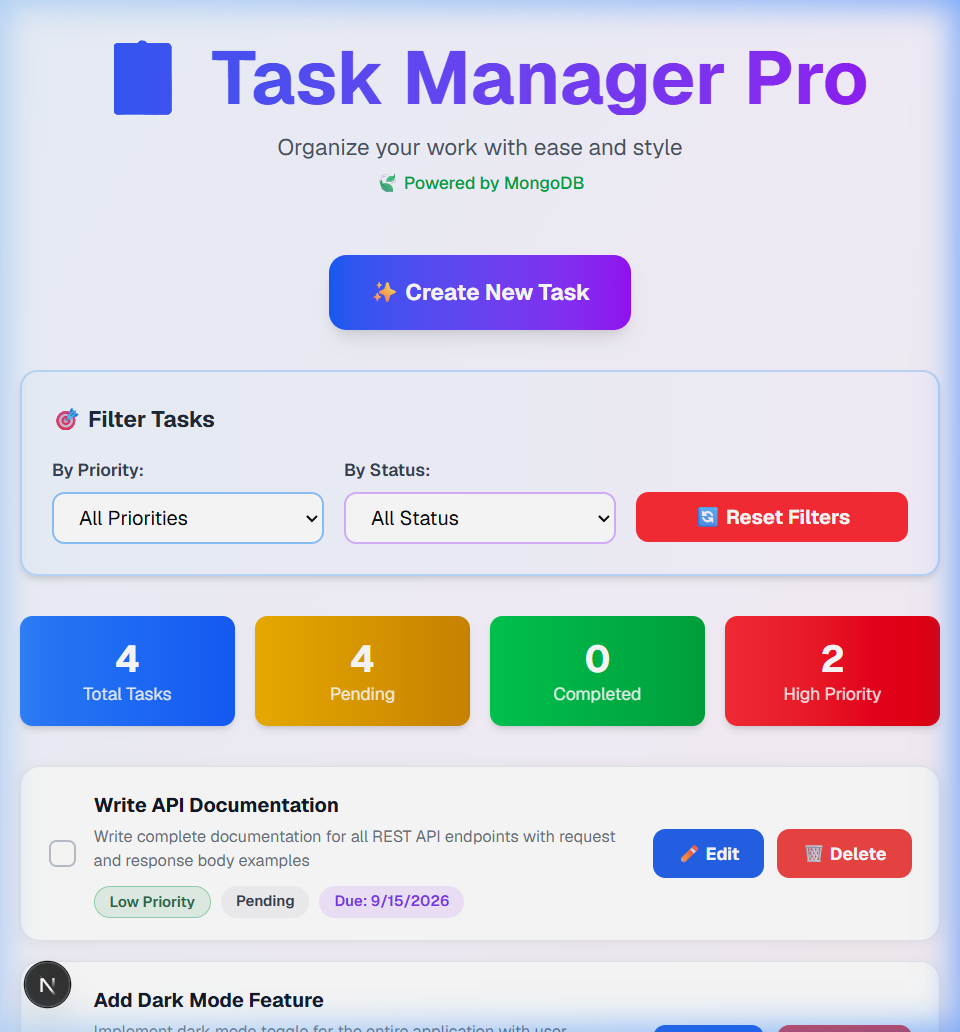
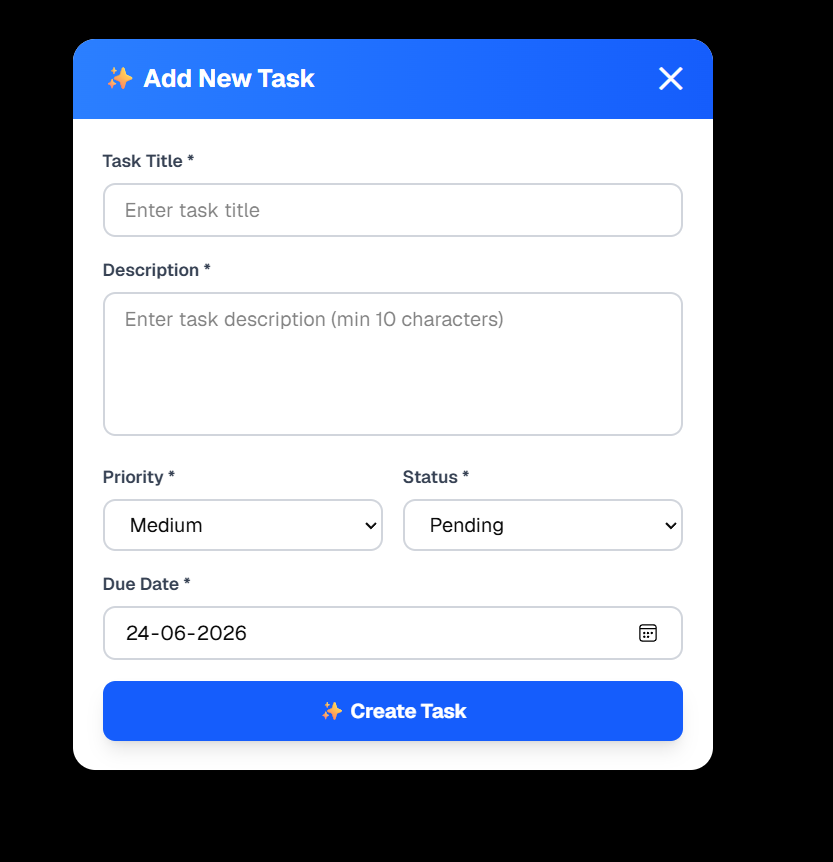
docs: embed new Add New Task modal screenshot under Features section in README

diff --git a/README.md b/README.md
@@ -18,16 +18,18 @@ Manage your tasks with full CRUD operations, priority filters, status tracking, 
 
 ## ✨ Features
 
-* Create Tasks
-* Edit Tasks
-* Delete Tasks
-* Mark Tasks as Completed
-* Priority Levels (Low, Medium, High)
-* Filter by Priority and Status
-* Dashboard Statistics
-* MongoDB Database Integration
-* Responsive Design
-* Smooth User Experience
+* **Create & Edit Tasks** — Add or update tasks using a sleek modal form.
+  
+  ![Add New Task Form](public/screenshots/form.png)
+
+* **Delete Tasks** — Delete tasks easily with custom actions.
+* **Mark Tasks as Completed** — Animated completion checkmark with title strikethrough.
+* **Priority Levels** — Low, Medium, and High task classifications.
+* **Filter by Priority & Status** — Instantly filter tasks on the dashboard.
+* **Dashboard Statistics** — Tracks Total, Pending, Completed, and High-Priority tasks.
+* **MongoDB Database Integration** — Mongoose schemas for data persistence.
+* **Responsive Design** — Fully optimized for mobile, tablet, and desktop views.
+* **Smooth User Experience** — Micro-animations powered by Framer Motion.
 
 ---
 